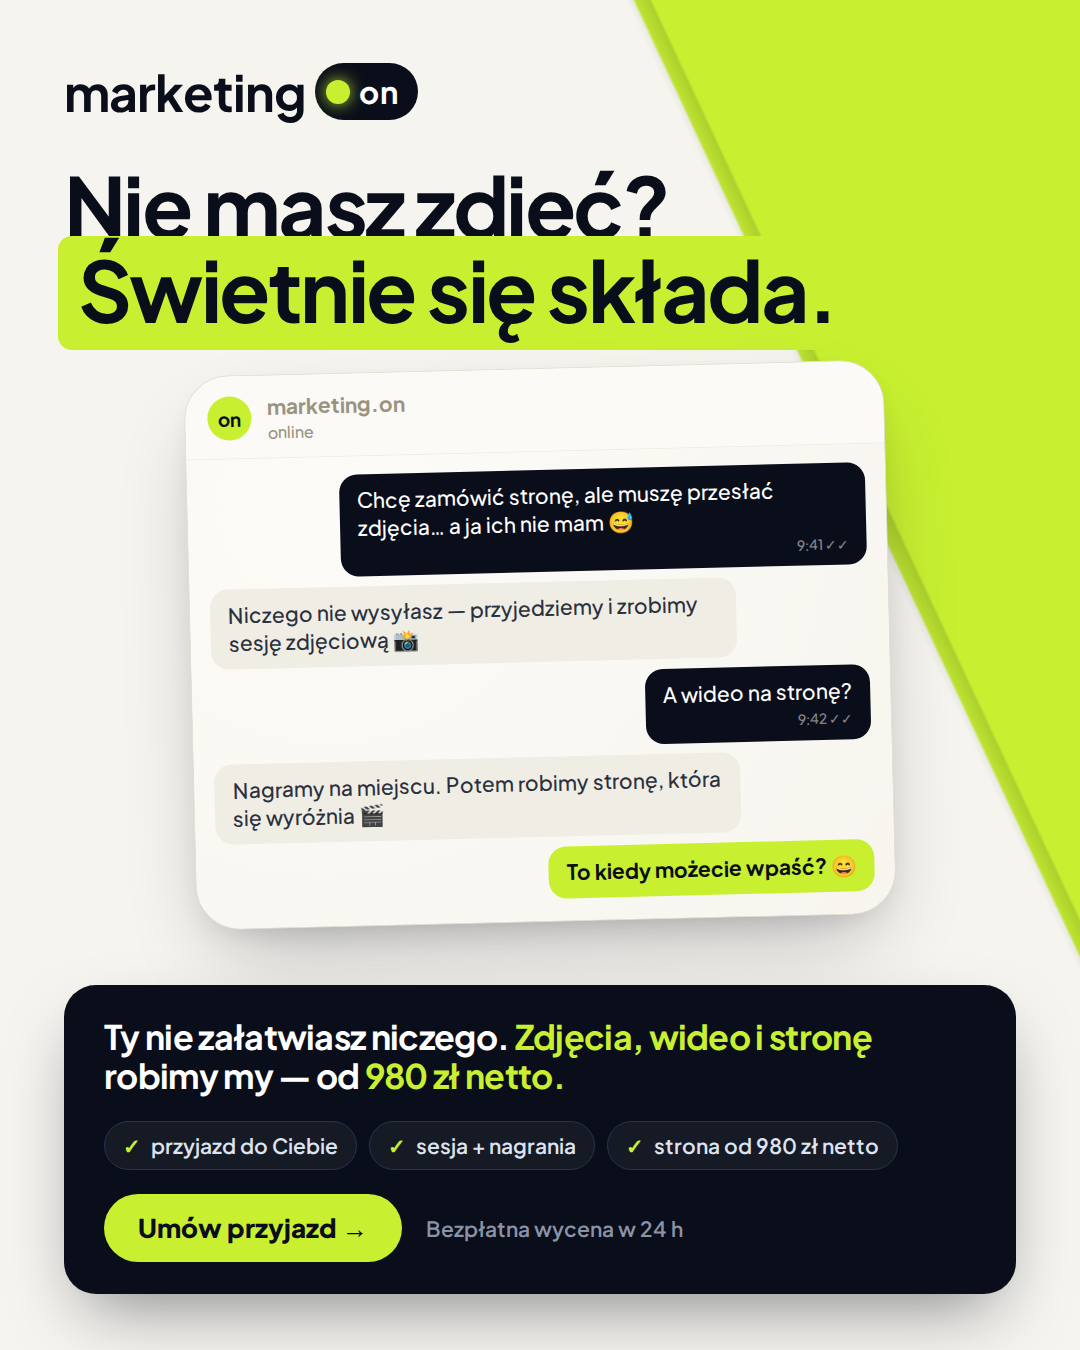
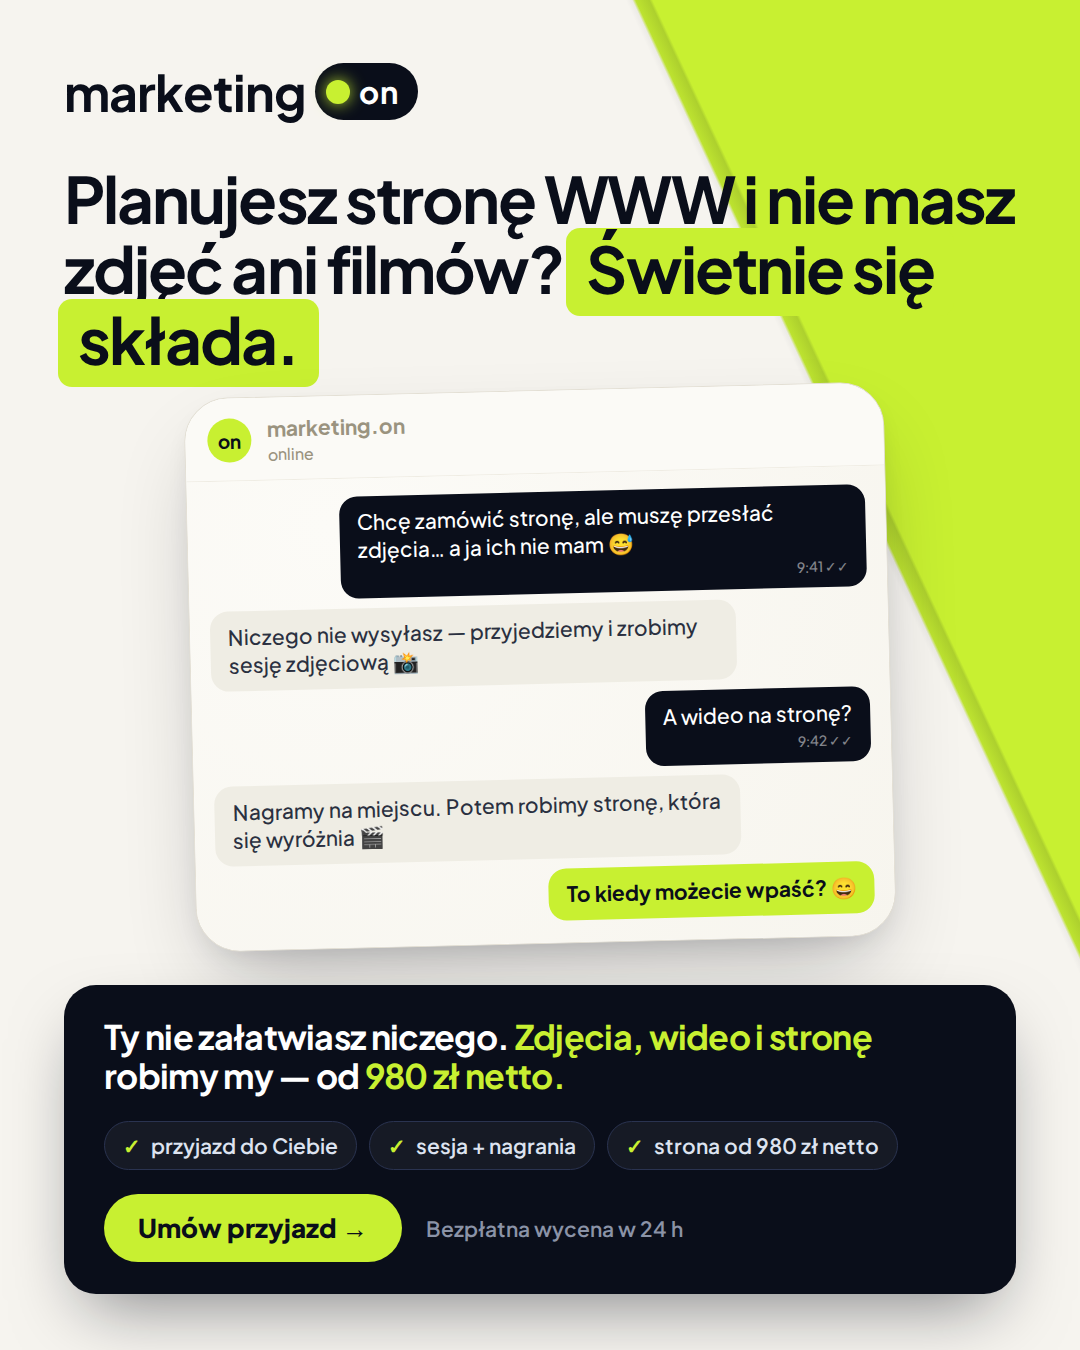
Nowy naglowek glownej kreacji: 'Planujesz strone WWW i nie masz zdjec ani filmow?'
Naglowek wg wskazania klienta + zachowana puenta 'Swietnie sie sklada.';
dopasowane rozmiary i odstepy czatu.

Claude-Session: https://claude.ai/code/session_018cPE5fQDHkGpK74B5CtJMV

Changed region(s): [[0.0306, 0.1244, 0.9472, 0.7156]]

diff --git a/ads/v4-rozmowa-z-nami.html b/ads/v4-rozmowa-z-nami.html
@@ -21,8 +21,8 @@
   .on-badge b{font-family:'Plus Jakarta Sans';font-weight:700;font-size:31px;color:#fff;letter-spacing:.02em}
 
   .headline{position:relative;font-family:'Plus Jakarta Sans';font-weight:700;letter-spacing:-.03em}
-  body.story .headline{font-size:100px;line-height:1.03;margin-top:56px}
-  body.feed  .headline{font-size:84px;line-height:1.0;margin-top:42px}
+  body.story .headline{font-size:82px;line-height:1.12;margin-top:48px}
+  body.feed  .headline{font-size:64px;line-height:1.1;margin-top:36px}
   .headline .q{background:var(--lime);border-radius:14px;padding:0 20px 8px;margin-left:-6px;
     -webkit-box-decoration-break:clone;box-decoration-break:clone}
   .sub{position:relative;font-size:34px;line-height:1.4;font-weight:500;color:#3A4152;max-width:900px}
@@ -39,7 +39,7 @@
   .ph-top .ava{width:52px;height:52px;border-radius:50%;background:var(--lime);display:flex;align-items:center;justify-content:center;color:var(--ink);font-weight:700;font-size:21px;font-family:'Plus Jakarta Sans'}
   .ph-top b{display:block;font-size:25px;font-weight:700}
   .ph-top span{display:block;font-size:19px;color:#9A937F;font-weight:500;margin-top:2px}
-  .msgs{display:flex;flex-direction:column;gap:15px;padding:28px 30px 32px;background:
+  .msgs{display:flex;flex-direction:column;gap:13px;padding:22px 30px 26px;background:
     radial-gradient(circle at 20% 10%,#FCFBF7 0%,#F7F5EE 100%)}
   .m{max-width:80%;border-radius:24px;padding:16px 24px;font-size:25px;line-height:1.33;font-weight:500;position:relative}
   .in{align-self:flex-start;background:#EFEDE4;color:#2A3040;border-bottom-left-radius:8px}
@@ -87,7 +87,7 @@
     <div class="wordmark">marketing<span class="on-badge"><i></i><b>on</b></span></div>
   </div>
 
-  <div class="headline">Nie masz zdjęć?<br><span class="q">Świetnie się składa.</span></div>
+  <div class="headline">Planujesz stronę WWW i nie masz zdjęć ani filmów? <span class="q">Świetnie się składa.</span></div>
   <div class="sub">Przyjeżdżamy do Ciebie ze sprzętem: sesja zdjęciowa, nagrania wideo — <b>a potem robimy stronę.</b></div>
 
   <div class="chat">
